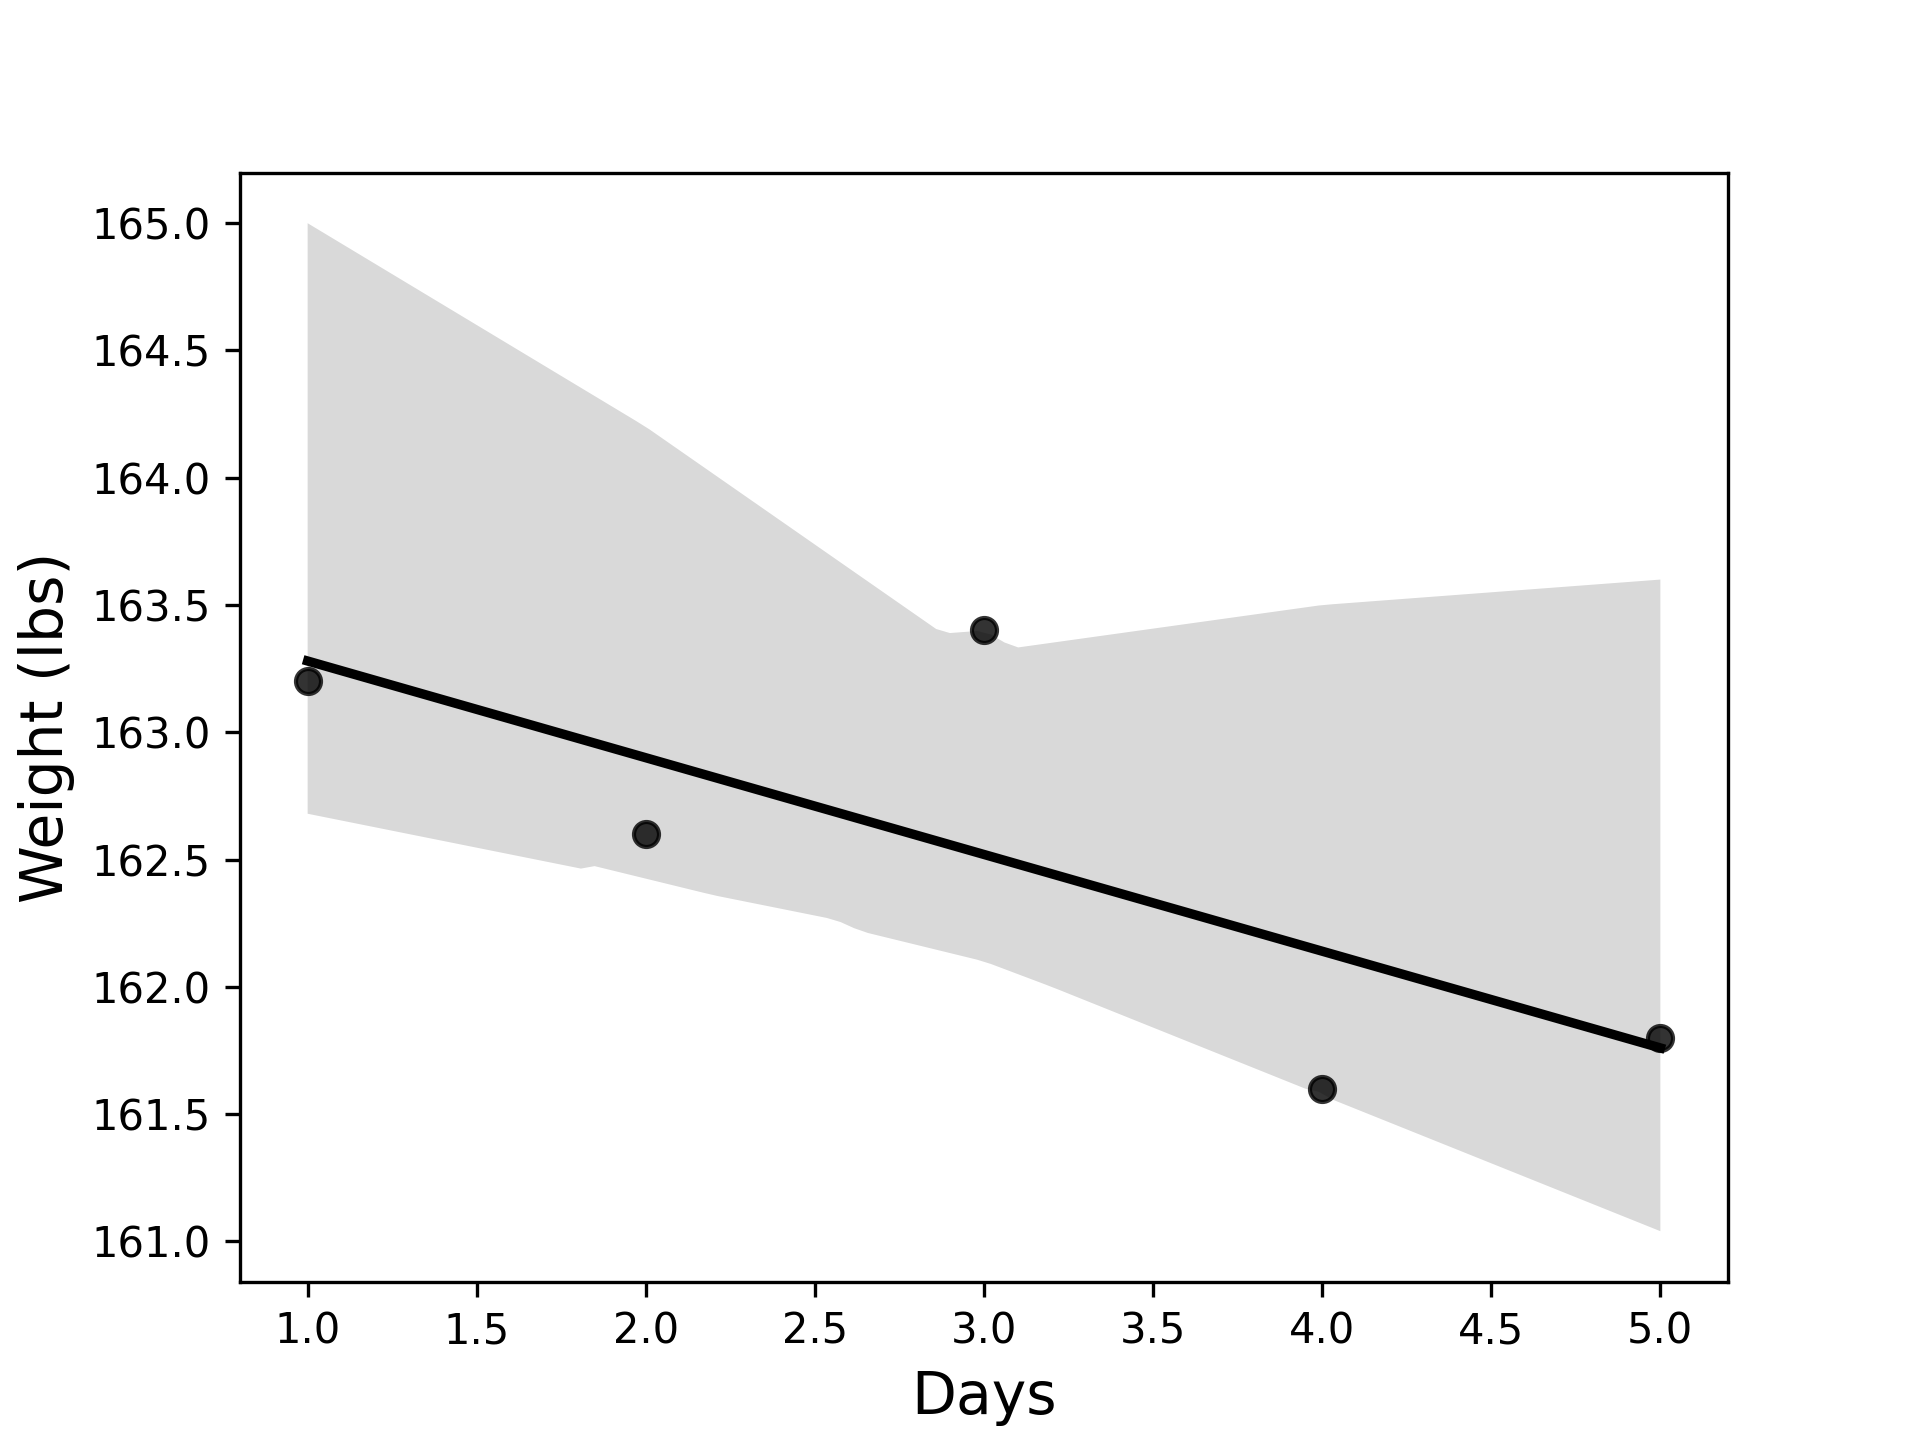
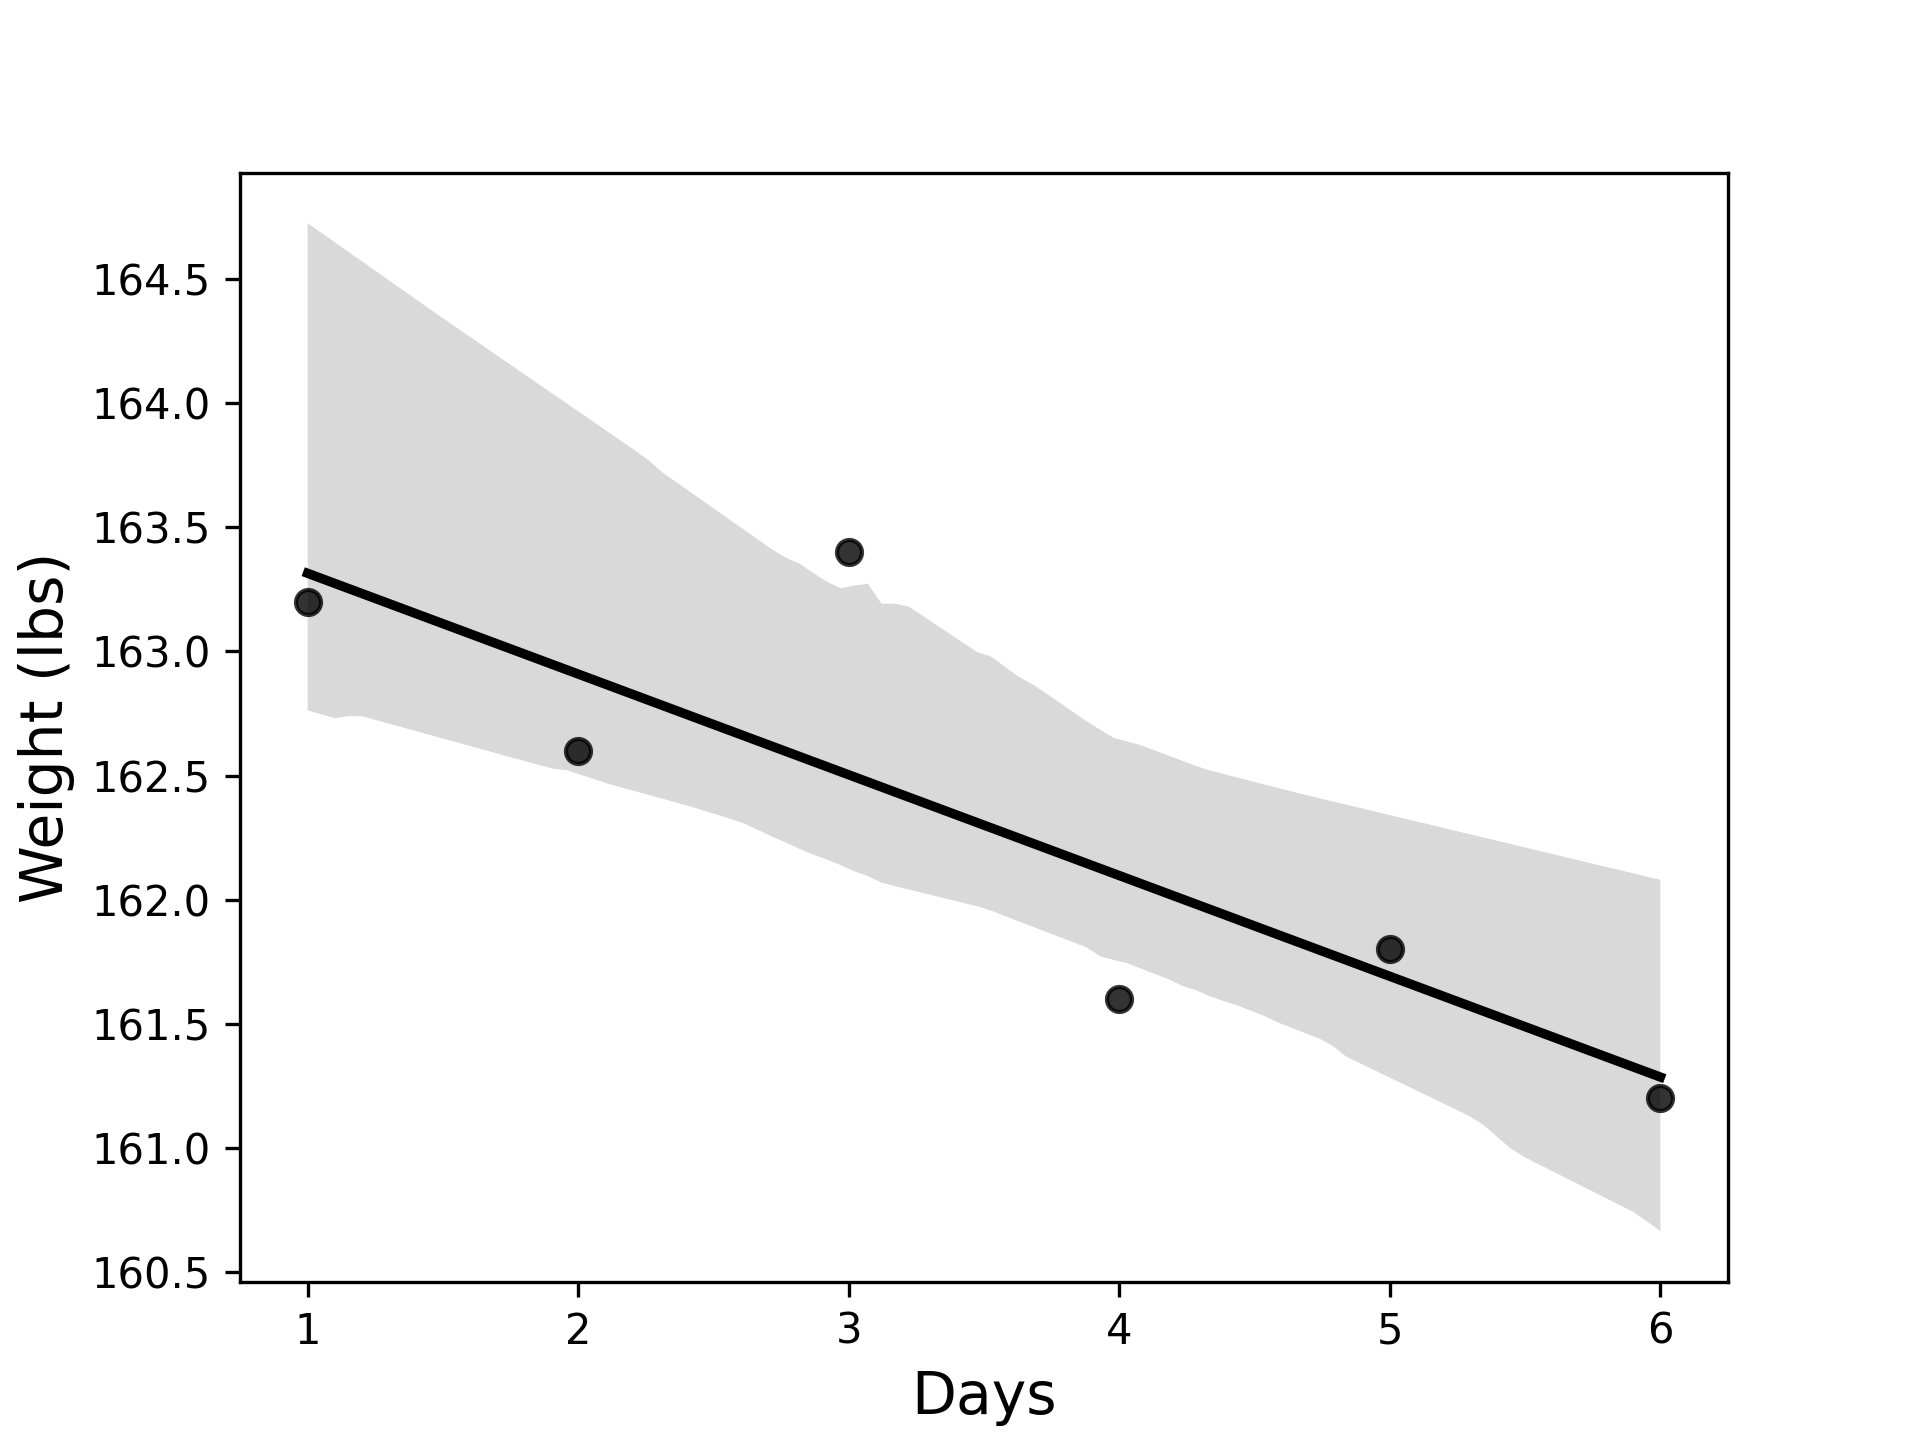
Updated weight.py and weight.png

diff --git a/Weight.py b/Weight.py
@@ -5,8 +5,8 @@ import matplotlib.pyplot as plt
 import seaborn as sns
 
 # Creates an array of elapsed days and assigns it to days_elapsed
-days_elapsed = np.array([1, 2, 3 ,4, 5]).reshape(-1,1)
-weight = np.array([163.2, 162.6, 163.4, 161.6, 161.8])
+days_elapsed = np.array([1, 2, 3 ,4, 5, 6]).reshape(-1,1)
+weight = np.array([163.2, 162.6, 163.4, 161.6, 161.8, 161.2])
 
 # Instantiates a LinearRegression model and fits it to the above arrays
 model = sklearn.linear_model.LinearRegression().fit(days_elapsed,weight)
